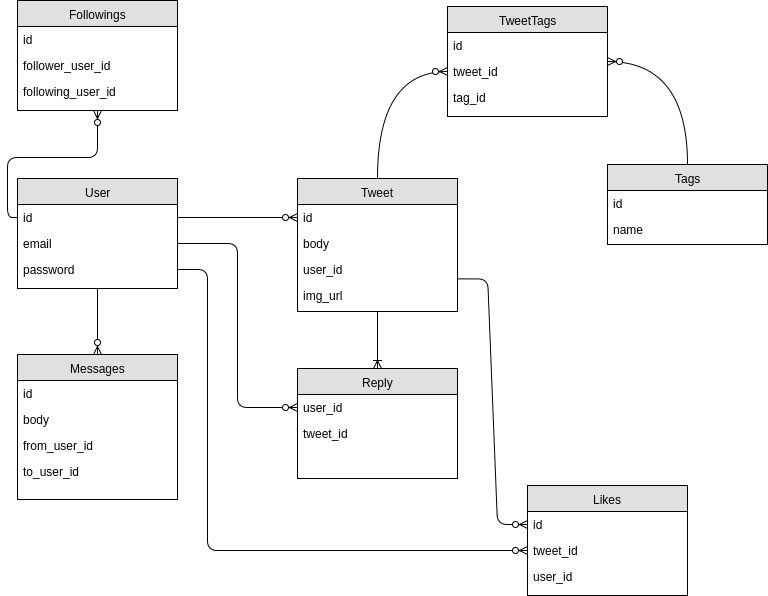
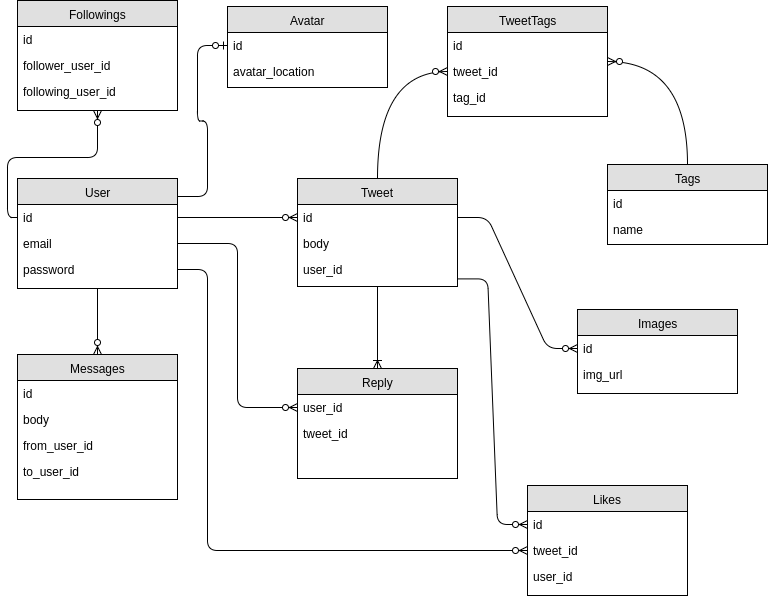
Update ERD, add tweet model, Update route to point to tweet

diff --git a/db/schema.rb b/db/schema.rb
@@ -10,10 +10,18 @@
 #
 # It's strongly recommended that you check this file into your version control system.
 
-ActiveRecord::Schema.define(version: 20170530074150) do
+ActiveRecord::Schema.define(version: 20170530082233) do
 
   # These are extensions that must be enabled in order to support this database
   enable_extension "plpgsql"
+
+  create_table "tweets", force: :cascade do |t|
+    t.string "body"
+    t.bigint "user_id"
+    t.datetime "created_at", null: false
+    t.datetime "updated_at", null: false
+    t.index ["user_id"], name: "index_tweets_on_user_id"
+  end
 
   create_table "users", force: :cascade do |t|
     t.string "email", default: "", null: false
@@ -30,4 +38,5 @@ ActiveRecord::Schema.define(version: 20170530074150) do
     t.index ["reset_password_token"], name: "index_users_on_reset_password_token", unique: true
   end
 
+  add_foreign_key "tweets", "users"
 end

diff --git a/db/migrate/20170530082233_create_tweets.rb b/db/migrate/20170530082233_create_tweets.rb
@@ -1,0 +1,10 @@
+class CreateTweets < ActiveRecord::Migration[5.1]
+  def change
+    create_table :tweets do |t|
+      t.string :body
+      t.references :user, foreign_key: true
+
+      t.timestamps
+    end
+  end
+end

diff --git a/config/routes.rb b/config/routes.rb
@@ -1,4 +1,6 @@
 Rails.application.routes.draw do
   devise_for :users
   # For details on the DSL available within this file, see http://guides.rubyonrails.org/routing.html
+
+  get 'tweets' , to: 'tweets#index'
 end

diff --git a/app/controllers/tweets_controller.rb b/app/controllers/tweets_controller.rb
@@ -1,0 +1,8 @@
+class TweetsController < ApplicationController
+
+  def index
+    @tweets = Tweet.all
+  end
+  
+
+end

diff --git a/app/models/tweet.rb b/app/models/tweet.rb
@@ -1,0 +1,3 @@
+class Tweet < ApplicationRecord
+  belongs_to :user_id
+end
